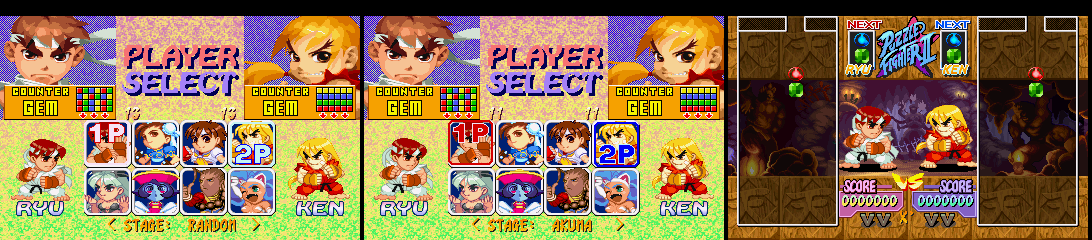
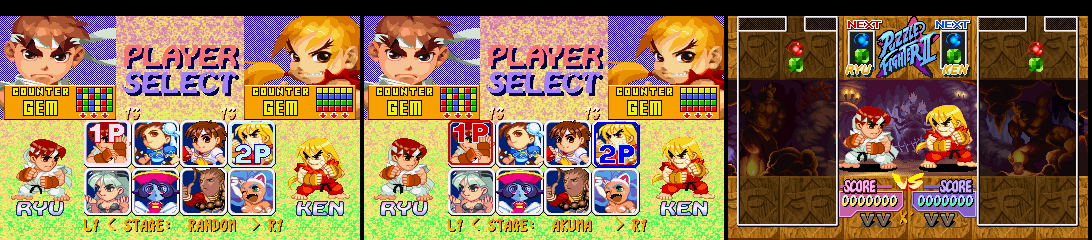
Stage selector: R1 next / L1 previous instead of SELECT
The stage line now reads 'L1 < STAGE: name > R1' as a hint.

Claude-Session: https://claude.ai/code/session_01Fft1KzyYNeuf86PpSTTuV4

diff --git a/docs/RESEARCH.md b/docs/RESEARCH.md
@@ -218,12 +218,12 @@ There is no handicap or free-play setting: free play is meaningless on console, 
 - Stage files: `DATA/STAGE00..09.EMI`, file ids `0x4A + n` in the LBA table at `0x80165CC0`.
 - The match music follows the stage, not the characters.
 - Mode bytes: `0x8019C3FF` is the mode being set up (3 = Versus on the select screen), `0x8019C40F` the mode of the running match.
-- Pads: pressed this frame at `0x801BF09E` (P1) / `0x801BF0AA` (P2), held at `0x801BF09C`; SELECT = `0x0100`.
+- Pads: pressed this frame at `0x801BF09E` (P1) / `0x801BF0AA` (P2), held at `0x801BF09C`; bits: SELECT `0x0100`, L2 `0x01`, R2 `0x02`, L1 `0x04`, R1 `0x08`, up/right/down/left `0x1000/0x2000/0x4000/0x8000`.
 - RESULT screen cursor: `0x8019C3DA` (0 CONTINUE, 1 END, 2 CLEAR RESULT).
 
 **Patch (`src/stage.asm`).**
-- Line `< STAGE: name >` at col 14, row 27, palette 5, Versus select only. It is drawn by the select handler (the old secret-code call block at `0x8013AA60` jumps to `xp_stagekey`) and erased on scene init with the X' marker.
-- SELECT cycles NORMAL → RANDOM → MORRIGAN … AKUMA. Only P1 can press it, while still choosing; P2's handler only draws the line.
+- Line `L1 < STAGE: name > R1` at col 11, row 27, palette 5, Versus select only. It is drawn by the select handler (the old secret-code call block at `0x8013AA60` jumps to `xp_stagekey`) and erased on scene init with the X' marker.
+- R1 moves forward and L1 back, both wrapping, through NORMAL → RANDOM → MORRIGAN … AKUMA. Only P1 can change it, while still choosing; P2's handler only draws the line.
 - `xp_stage` replaces the `lbu` at `0x8012CCE0`. In a Versus match, NORMAL keeps vanilla, a fixed setting n gives stage n-2, and RANDOM draws one of the 10 stages. The draw uses an LCG stirred with root counters 0 and 1, excluding the stage of the previous match.
 - `xp_title` resets the setting to NORMAL.
 - The code and its variables live at `0x801544E4`, a 996-byte function with no references (no `jal`, no pointer, no `lui`/`addiu` pair). Emulator coverage never reached it.

diff --git a/README.md b/README.md
@@ -44,7 +44,7 @@ Mei-Ling and Anita get their own name labels, which the original select screen n
 
 ![Match with the X' marker](docs/screenshots/match.png)
 
-**Versus stage selector.** P1 picks the stage under the character grid with SELECT. From left to right: RANDOM, then AKUMA, and the match that follows on Akuma's stage.
+**Versus stage selector.** P1 picks the stage under the character grid with **R1** (next) and **L1** (previous). From left to right: RANDOM, then AKUMA, and the match that follows on Akuma's stage.
 
 ![Stage selector: RANDOM, AKUMA, match on Akuma's stage](docs/screenshots/stage_selector.png)
 
@@ -71,7 +71,7 @@ See [docs/RESEARCH.md](docs/RESEARCH.md) for the map of the PSX executable.
 
 This feature is on the branch `experimental/random-stage`.
 
-In Versus, the character select shows a stage line under the grid. **P1** presses **SELECT**, before confirming, to cycle through:
+In Versus, the character select shows a stage line under the grid. **P1** presses **R1** (next) or **L1** (previous), before confirming, to move through:
 
 `NORMAL → RANDOM → MORRIGAN → CHUN-LI → RYU → KEN → HSIEN-KO → DONOVAN → FELICIA → SAKURA → DEVILOT → AKUMA`
 
@@ -141,9 +141,11 @@ screen, with their own name label; they appear as themselves in the match.
 
 ## How to choose the Versus stage
 
-On the Versus character select, P1 presses **SELECT** before confirming the
-character. The line under the grid shows the setting (NORMAL, RANDOM or a
-stage name). P2's SELECT does nothing.
+On the Versus character select, before confirming the character, P1 presses
+**R1** to go to the next setting or **L1** to go back. The line
+`L1 < STAGE: name > R1` under the grid shows the setting (NORMAL, RANDOM or
+a stage name). For a random stage at every match, press R1 once (RANDOM).
+P2's L1/R1 do nothing.
 
 ## Tools
 

diff --git a/docs/PROPOSAL-random-stage.md b/docs/PROPOSAL-random-stage.md
@@ -38,7 +38,8 @@ A line under the character grid, **Versus only**:
 (Real mockup: the text is written to the game's own text layer in the
 emulator, same font and palette as the in-match `X'` marker.)
 
-- **SELECT** (P1 only, until P1 confirms) cycles the setting:
+- **R1** next / **L1** previous (P1 only, until P1 confirms) change the setting
+  (first version used SELECT; changed to L1/R1 on request):
   `NORMAL → RANDOM → MORRIGAN → CHUN-LI → RYU → KEN → HSIEN-KO → DONOVAN →
   FELICIA → SAKURA → DEVILOT → AKUMA → NORMAL`.
   A short menu sound on each press.
